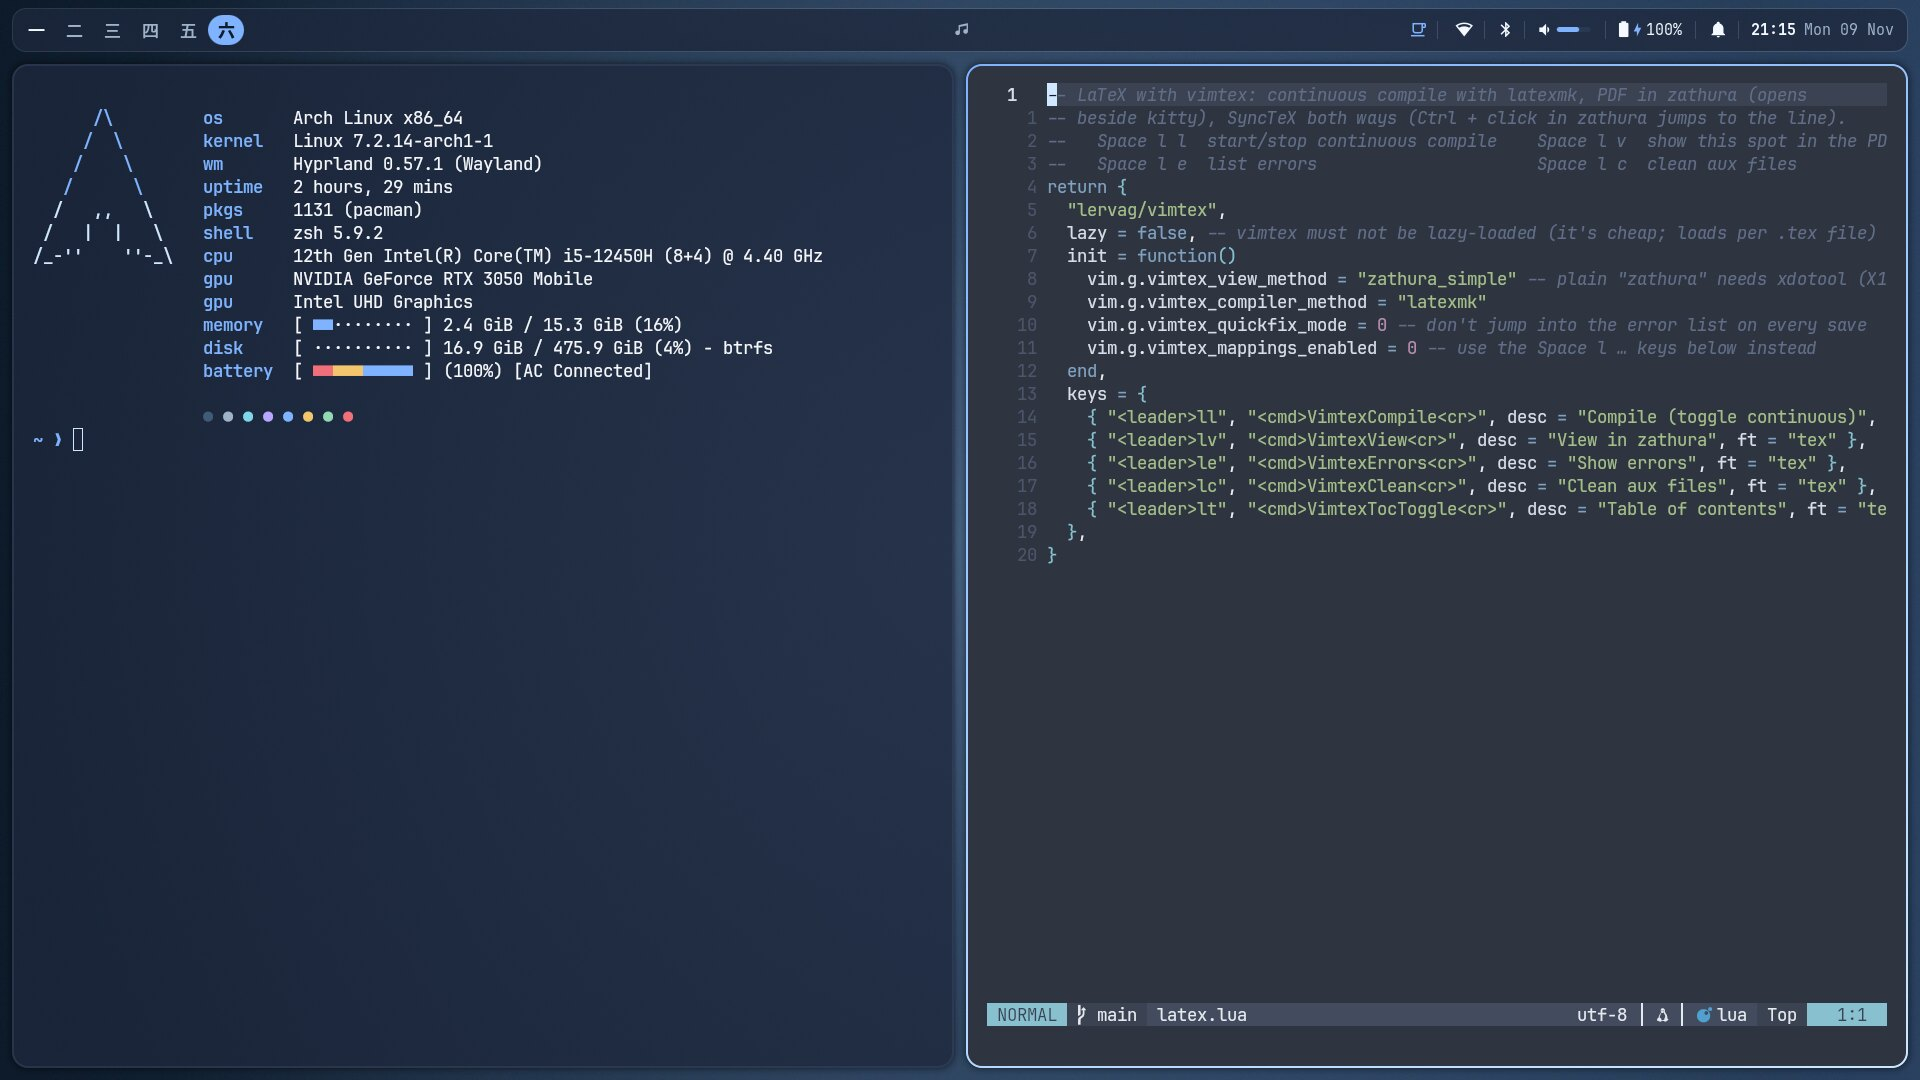
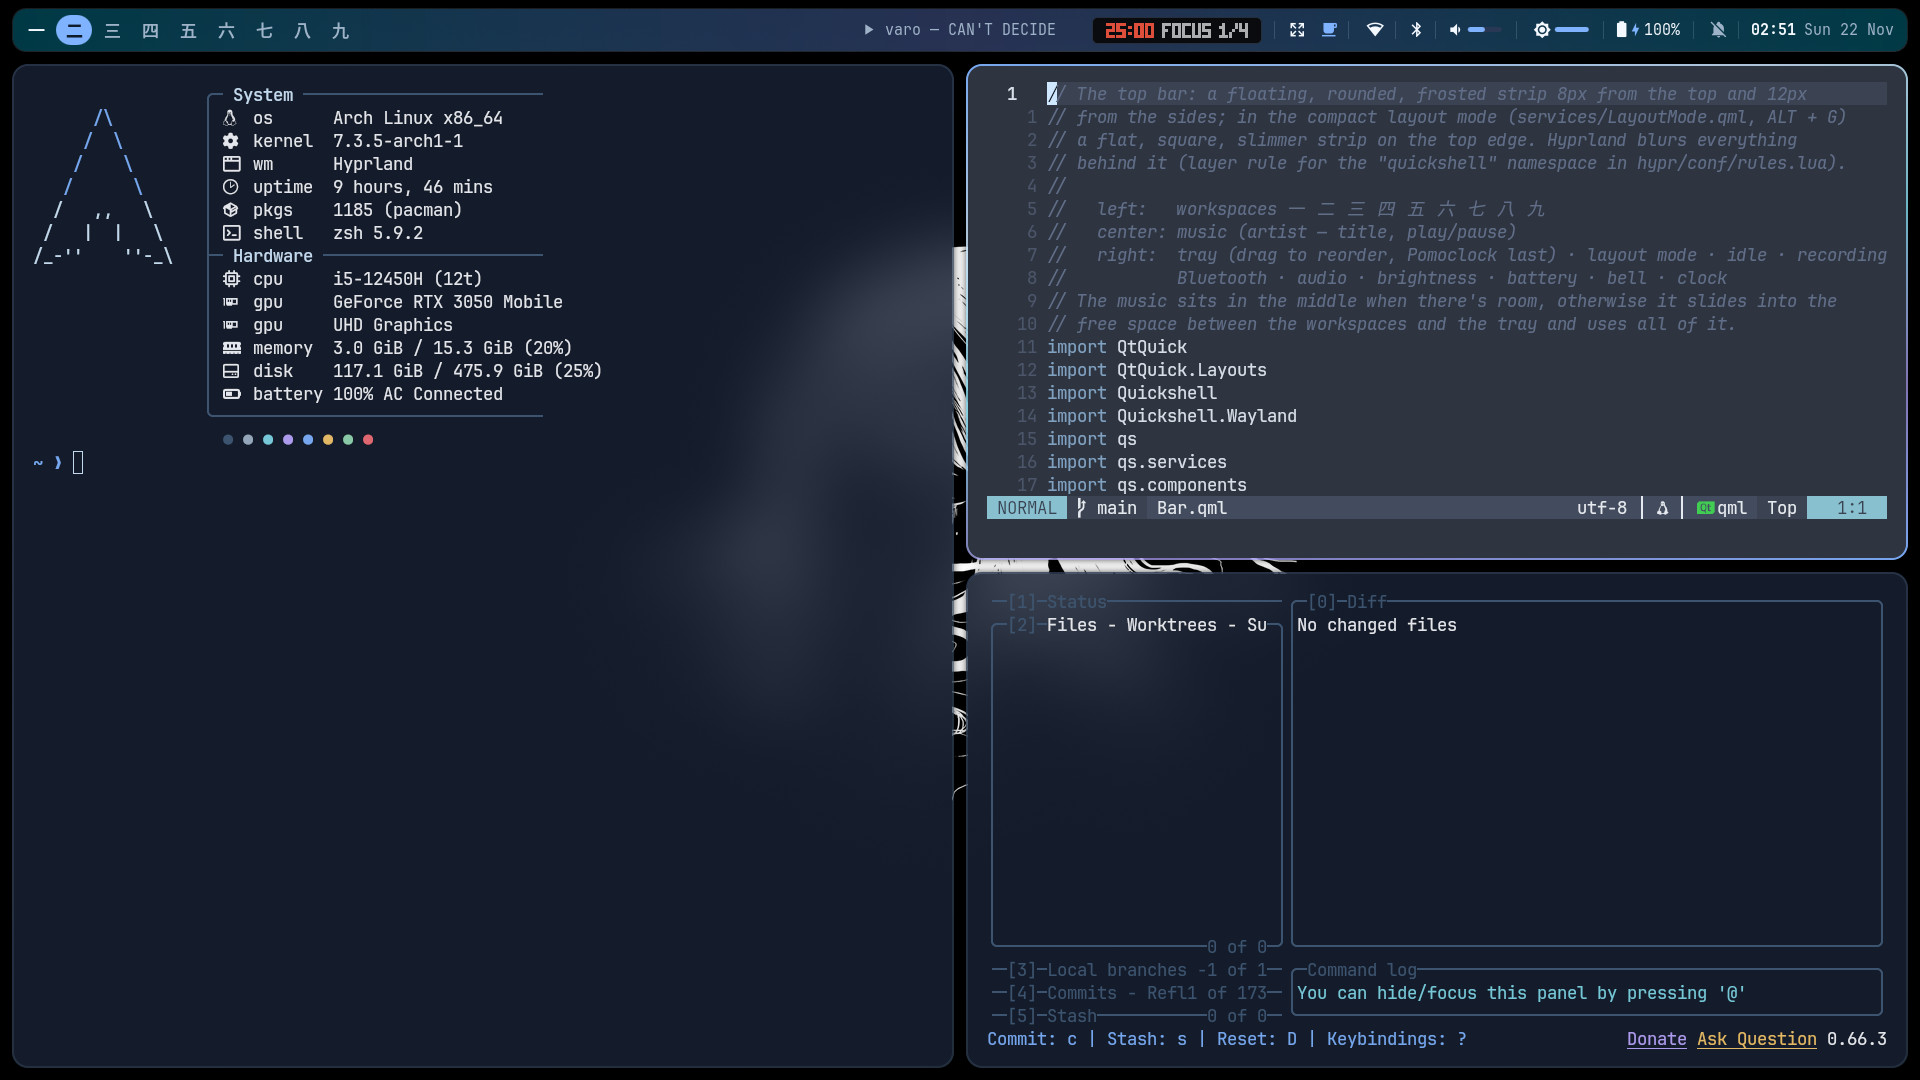
README: rewritten for the current system, new screenshots (compact layout, overview, stats, calculator, ...)

diff --git a/README.md b/README.md
@@ -1,79 +1,124 @@
 # dotfiles · Hyprland on Arch
 
-A calm blue-and-white Hyprland desktop for an **HP Victus 15 laptop**
-(Intel i5-12450H + **RTX 3050**, hybrid graphics) on Arch Linux. Bar, popups,
-notifications, panels and overlays are all **Quickshell**. Everything is in this
-repo and linked into place with GNU Stow; nothing is edited outside it by hand.
+A calm, blue Hyprland desktop for an **HP Victus 15 laptop** (Intel i5-12450H +
+**RTX 3050**, hybrid graphics) on Arch Linux. The bar, popups, notifications,
+panels, overview and every overlay are hand-written in **Quickshell**. All
+config lives in this repo and is linked into place with GNU Stow.
 
-![Desktop: bar, fastfetch and Neovim](docs/screenshots/desktop.jpg)
+![Desktop: the bar, fastfetch, Neovim and lazygit](docs/screenshots/desktop.jpg)
 
-| App launcher (ALT + D) | Power menu (ALT + Escape) |
+| Compact layout (bar button or ALT + G) | Window overview (3-finger swipe up or ALT + A) |
 |---|---|
-| ![App launcher](docs/screenshots/launcher.jpg) | ![Power menu](docs/screenshots/powermenu.jpg) |
+| ![Compact, i3-style layout](docs/screenshots/compact.jpg) | ![Window overview](docs/screenshots/overview.jpg) |
+| **System stats (ALT + S)** | **App launcher (ALT + D)** |
+| ![System stats panel](docs/screenshots/stats.jpg) | ![App launcher](docs/screenshots/launcher.jpg) |
+| **Calculator (ALT + =)** | **Wallpaper reel (ALT + W)** |
+| ![Calculator](docs/screenshots/calc.jpg) | ![Wallpaper reel](docs/screenshots/wallpaper.jpg) |
+| **Power menu (ALT + Escape)** | |
+| ![Power menu](docs/screenshots/powermenu.jpg) | |
+
+## The look
+
+- **Blue Ice** everywhere: deep navy, steel blue, light blue and ice-white, in
+  Hyprland, Quickshell, rofi, kitty, the prompt, fzf, bat, lazygit, fastfetch,
+  Qt apps, qimgv, Vesktop and MangoHud. GTK apps use a teal accent. Neovim,
+  Nautilus and zathura use Nord, a close cousin.
+- **The bar** is a "deep glacier" gradient: teal at both ends, steel blue, and
+  indigo in the middle, all at the same perceived brightness, so text stays
+  easy to read everywhere.
+- **Windows** get a soft aurora border (light blue → ice → cyan → a hint of
+  lavender) that sweeps once when focus changes, and is still otherwise.
+  Unfocused windows are dimmed slightly.
+- **Two layouts**, switched with an animation: *spaced* (floating rounded
+  bar, gaps, rounded windows, shadows) or *compact* (i3-style: no gaps, square
+  windows, the bar a flat strip on the top edge).
+- **Motion** is smooth and calm: things glide and settle, nothing bounces.
+  Nothing animates while you're not doing anything, so idle CPU stays near
+  zero.
 
 ## What's in it
 
+**Desktop**
 - **Hyprland 0.57** (Lua config) on the Intel iGPU; games and heavy apps on the
-  RTX 3050 through `prime-run`. Smooth, no-bounce animations, sensible floating
-  rules, tearing for games.
-- **Quickshell bar**: workspaces 一 二 三 四 五 六 七 八 九; music with play/pause (a
-  cut-off title scrolls smoothly on hover); tray with a drag-to-reorder order
-  that's remembered; stay-awake and recording indicators; Wi-Fi / Bluetooth /
-  audio menus that really connect, pair and switch devices; a brightness
-  control (scroll, or click for a slider with presets); battery,
-  notifications, clock + calendar.
-- **Overlays**: on-screen volume/brightness, notification popups + center with
-  Do Not Disturb (automatic during fullscreen games), system stats panel,
-  power menu, wallpaper reel (slanted cards, angled transition), keybind
-  cheat sheet, idle screen.
-- **Lock + login**: [qylock](https://github.com/Darkkal44/qylock) "winter" for
-  SDDM and the lock screen, with a small patch to its login code (no more hang
-  after pressing Enter on an empty password; shows why a login failed, e.g.
-  the 10-minute lockout after 3 wrong passwords). hypridle dims → idle screen
-  → locks → screen off, and suspends after 20 min **on battery only**. Closing
-  the lid locks when plugged in and suspends on battery.
-- **Rofi** launcher, clipboard history with image thumbnails, emoji picker,
-  calculator (**ALT + =**, also units and currencies) and a file finder for
-  your home folder (**ALT + SHIFT + F**, newest first).
+  RTX 3050 through `prime-run`. 9 workspaces (一 … 九), 3-finger swipe
+  left/right between them, sensible floating rules, tearing for games.
 - **Window overview** (3-finger swipe up or **ALT + A**): live thumbnails of
-  the workspace's windows, the 9 workspaces as mini-maps, type to search all
-  windows, drag a window onto a workspace to move it. Swipe down / Esc closes.
-- **Layout toggle** (bar button next to the coffee cup, or **ALT + G**):
-  spaced and rounded ⇄ i3-style compact (no gaps, square windows, the bar a
-  flat strip on the top edge), animated.
-- **Capture**: screenshots (frozen screen, annotate with satty), color picker,
-  OCR, LaTeX OCR (equation on screen → LaTeX code, offline with pix2tex, ~1 s
-  once loaded; one-time `scripts/latex-ocr/setup.sh`), screen recording with a 60 s instant-replay
+  the workspace's windows, all 9 workspaces as mini-maps, type to search every
+  window, drag a window onto a workspace to move it there. Swipe down or Esc
+  closes.
+
+**Bar** (Quickshell)
+- Workspaces with a sliding pill; the music in the middle (**click**:
+  play/pause, **middle-click**: a now-playing card with the cover, seek bar and
+  controls; a long title scrolls on hover).
+- On the right: the tray (drag icons to reorder; the order is remembered),
+  the layout button, stay-awake (coffee cup), recording indicator, Wi-Fi,
+  Bluetooth and audio menus that really connect, pair and switch devices,
+  brightness (scroll, or click for a slider with presets), battery,
+  notifications and the clock with a calendar.
+
+**Overlays and panels**
+- On-screen volume / brightness indicator, notification popups and a
+  notification center with Do Not Disturb (automatic during fullscreen games).
+- **System stats (ALT + S)**: CPU/RAM/GPU/disk gauges, a per-thread heat map
+  (hover a thread for its own graph), smooth graphs, GPUs, storage, network,
+  battery health, and top processes with app icons (end one with a confirm).
+- Power menu, wallpaper reel (slanted cards, angled transition), keybind cheat
+  sheet (**ALT + /**, searchable), idle screen.
+
+**Lock, login and idle**
+- [qylock](https://github.com/Darkkal44/qylock) "winter" for the SDDM login
+  and the lock screen (**SUPER + L**), with a small patch to its login code
+  (no hang on an empty password; it says why a login failed).
+- Idle: dim + idle screen → lock → screen off; suspend after 20 min **on
+  battery only**. Closing the lid locks when plugged in and suspends on
+  battery.
+
+**Launcher and tools**
+- **rofi**: app launcher (**ALT + D**), clipboard history with image
+  thumbnails (**ALT + C**), emoji picker (**ALT + SHIFT + E**), calculator
+  (**ALT + =**, also units and currencies; Enter copies), and a file finder for
+  your home folder (**ALT + SHIFT + F**, newest first; Enter opens, Shift +
+  Enter shows it in Nautilus).
+- **Capture**: screenshots on a frozen screen (annotate with satty), color
+  picker, OCR, **LaTeX OCR** (an equation on screen → LaTeX code, offline with
+  pix2tex, ~1 s once loaded), screen recording with a 60-second instant-replay
   buffer.
-- **Theme**: Blue Ice (dark/light blue + white) across Hyprland, Quickshell,
-  rofi, kitty, starship, fzf, bat, lazygit, fastfetch, Qt, qimgv, Vesktop and
-  MangoHud. Neovim, Nautilus and zathura use Nord.
-- **Shell**: kitty, zsh + Oh My Zsh, starship, eza, bat, ripgrep, fd, fzf,
-  zoxide, lazygit, fastfetch, a dropdown terminal (ALT + `), `lockdir` /
-  `unlockdir` to password-protect a folder (GnuPG AES-256), `ccmonitor` (live
-  Claude Code usage; one-time `scripts/ccmonitor/setup.sh`).
-- **Neovim**: Nord, LSP, Telescope, Treesitter, auto-closing brackets (and `$…$`
-  in LaTeX), LaTeX with live preview in
-  zathura (SyncTeX both ways), Rust (rust-analyzer, rustfmt + clippy on save).
-- **Nautilus**: Nord, Google Drive via rclone, PDF thumbnails, Move to Trash
-  everywhere, and right-click **Copy as Path**, **View All Images** (a folder
-  and all its subfolders in one qimgv grid) and **Lock with Password… /
-  Unlock…** for folders. Images open in qimgv, themed like the rest.
-- **Music**: rmpc (terminal player with album art and a cava visualiser) on
-  MPD; it shows in the bar's music widget and follows the media keys.
-- **Apps**: Zen, Outlook web app, Teams, Vesktop, Claude desktop, LocalSend,
-  Steam + MangoHud + GameMode (GE-Proton where a game needs it).
-- **Bluetooth**: devices pair from the bar menu and stay paired (blueman's
-  agent runs in the background; PIN / code confirmations arrive as
-  notifications).
-- **Safety net**: btrfs snapshots before/after every package change (snapper +
-  snap-pac), a careful `update` command, firewall, and a maintenance log.
+
+**Terminal and shell**
+- kitty, zsh + Oh My Zsh, starship, eza, bat, ripgrep, fd, fzf, zoxide,
+  lazygit, fastfetch (boxed, with icons), a dropdown terminal (**ALT + `**).
+- `lockdir` / `unlockdir` to password-protect a folder (GnuPG AES-256),
+  `view-all-images` (a folder and its subfolders in one image grid),
+  `ccmonitor` (live Claude Code usage and limits), `update` (safe system
+  updates, below).
+
+**Neovim**
+- Nord, LSP, Telescope, Treesitter, completion, file tree, git signs, lazygit.
+- **Space c f** formats the file (C/C++, LaTeX, Rust, Python; Rust also on
+  save); brackets and `$…$` (in LaTeX) close themselves without getting in the
+  way.
+- LaTeX with live preview in zathura (SyncTeX both ways), Rust with
+  rust-analyzer and clippy.
+
+**Files and apps**
+- **Nautilus**: Nord, Google Drive via rclone, PDF thumbnails, right-click
+  **Copy as Path**, **View All Images** and **Lock with Password… / Unlock…**.
+  Images open in **qimgv**.
+- **Music**: rmpc (terminal player with album art and a visualiser) on MPD,
+  shown in the bar and on the media keys.
+- Zen, Outlook web app, Teams, Vesktop, Claude desktop, LocalSend; Steam +
+  MangoHud + GameMode (GE-Proton where a game needs it).
+
+**Safety net**
+- btrfs snapshots before and after every package change (snapper + snap-pac),
+  a careful `update` command, a firewall, and a dated maintenance log.
 
 ## Install (fresh Arch Linux)
 
-Assumes Arch on **btrfs** with systemd-boot, NetworkManager and the AUR helper
-`yay`, on this laptop's hardware. Other machines: read the GPU (§2) and
-hardware notes in `system/ROOT-STEPS.md` first.
+Assumes Arch on **btrfs** with systemd-boot and NetworkManager, on this
+laptop's hardware. On other machines, read the GPU and hardware notes in
+`system/ROOT-STEPS.md` first.
 
 ```sh
 git clone https://github.com/sparrow876/dotfiles ~/dotfiles
@@ -88,43 +133,44 @@ Short version:
 2. `bash system/root-steps/1.5-home-subvolumes.sh` from a TTY (keeps caches,
    downloads, recordings and Steam out of snapshots).
 3. `bash system/root-steps/2-nvidia.sh`, then **reboot**.
-4. Install `yay` (ROOT-STEPS §5.0), then `bash system/root-steps/3-system.sh`:
-   checks, performance profile, multilib, **all packages** (`packages/*.txt`),
-   the user-level `./install.sh`, timers, firewall.
-5. `./install.sh` again only if you skipped step 4 or changed something: the
-   user-level part (no sudo): folders, default wallpaper, pinned clones (Oh My
-   Zsh, plugins, qylock), theme files, stow links, Qt and GTK settings.
+4. Install the AUR helper `yay` (ROOT-STEPS §5.0), then
+   `bash system/root-steps/3-system.sh`: checks, performance profile,
+   multilib, **all packages** (`packages/*.txt`), the user-level
+   `./install.sh`, timers, firewall.
+5. `./install.sh` again only if you skipped step 4 or changed something. It's
+   the user-level part (no sudo): folders, default wallpaper, pinned clones
+   (Oh My Zsh, plugins, qylock), stow links, Qt and GTK settings.
 6. `chsh -s /usr/bin/zsh` (ROOT-STEPS §8).
 7. Lock + login screen: qylock's two scripts, then
    `bash system/root-steps/4-login.sh` (ROOT-STEPS §10), and reboot into SDDM.
 8. Laptop lid (lock when plugged in, suspend on battery): ROOT-STEPS §14.
-9. Move to Trash in Downloads / Recordings / .cache / Steam (their own btrfs
-   subvolumes): `bash system/root-steps/5-trash-mounts.sh` (ROOT-STEPS §15).
-10. Optional: Google Drive and folder colors (§11), work/chat apps (§12),
+9. Move to Trash in Downloads / Recordings / .cache / Steam:
+   `bash system/root-steps/5-trash-mounts.sh` (ROOT-STEPS §15).
+10. Optional: Google Drive and folder colours (§11), work/chat apps (§12),
     gaming (§13 + [system/GAMING.md](system/GAMING.md)), Rust
-    (`./install.sh --only rust` after `rustup` is installed).
+    (`./install.sh --only rust` after `rustup`), LaTeX OCR
+    (`scripts/latex-ocr/setup.sh`), ccmonitor (`scripts/ccmonitor/setup.sh`).
 
 `./install.sh` (without `--packages`) never uses `sudo`, never edits `/etc` and
-never runs third-party scripts. `./install.sh --help` lists its steps. It also
-applies this repo's lock-screen patch to the qylock clone
-(`lockscreen/apply-patches.sh`), so run qylock's `quickshell.sh` after it.
+never runs third-party scripts; `./install.sh --help` lists its steps. Every
+AUR package was reviewed first (`packages/aur.txt` notes the reviewed AUR
+commit), and the two Python tools install only checksum-pinned packages (their
+`requirements.txt`).
 
 ## Everyday use
 
-- **ALT + /** shows every shortcut (searchable). The full table is below.
-- **ALT + W** picks a wallpaper (drop images in
-  `~/Pictures/Wallpapers`; they're listed in natural order: w1, w2, …, w10).
-- **Bar**: drag tray icons to reorder them; scroll on the sun for brightness
-  (click for the slider); hover a long song title to read it all.
-- **`update`** in a terminal updates the system safely: Arch news first (stops
-  if something needs a manual step), then `yay -Syu`, then checks. `update
-  --check` changes nothing. See [zsh/SHELL-CHEATSHEET.md](zsh/SHELL-CHEATSHEET.md).
-- **`lockdir <folder>`** turns a folder into one password-protected file;
-  **`unlockdir <folder>.locked`** brings it back (also in Nautilus's
-  right-click menu).
-- **`view-all-images [folder]`** opens every image in a folder and its
-  subfolders as one thumbnail grid in qimgv (also Nautilus right-click
-  **View All Images**). Browsing only: delete/rename the real files in Nautilus.
+- **ALT + /** shows every shortcut, searchable; the full table is below.
+- **3-finger swipe up** (or **ALT + A**) shows all windows; swipe down closes.
+- **ALT + G** (or the bar button left of the coffee cup) switches between the
+  spaced and compact layouts. The choice is remembered.
+- **ALT + W** picks a wallpaper (put images in `~/Pictures/Wallpapers`; they're
+  listed in natural order: w1, w2, …, w10).
+- **Bar**: drag tray icons to reorder them; scroll on the sun for brightness;
+  middle-click the music for the now-playing card.
+- **`update`** in a terminal updates the system safely: Arch news first (it
+  stops if something needs a manual step), then `yay -Syu`, then checks.
+  `update --check` changes nothing. See
+  [zsh/SHELL-CHEATSHEET.md](zsh/SHELL-CHEATSHEET.md).
 - Games: launch options `prime-run gamemoderun mangohud %command%`
   ([system/GAMING.md](system/GAMING.md)).
 
@@ -239,8 +285,9 @@ Generated from the live Hyprland binds by `scripts/keybinds-to-md.sh README.md`
   number); how to roll back, in plain English: ROOT-STEPS §1.6.
 - **Login screen broken**: from a TTY, `sudo systemctl disable sddm.service`,
   reboot, log in on the TTY and type `start-hyprland`.
+- **Stuck in the compact layout or odd gaps**: `scripts/layout-mode.sh spaced`.
 - **No sound**: MAINTENANCE.md §4.4 (card profile).
-- **Qt apps or qimgv lose their colours**: `./install.sh --only qt`.
+- **Qt apps or qimgv lost their colours**: `./install.sh --only qt`.
 
 More in [MAINTENANCE.md](MAINTENANCE.md) §8.
 
@@ -249,10 +296,9 @@ More in [MAINTENANCE.md](MAINTENANCE.md) §8.
 | File | What's in it |
 |------|--------------|
 | [system/ROOT-STEPS.md](system/ROOT-STEPS.md) | every root action, in order, with undo |
-| [MAINTENANCE.md](MAINTENANCE.md) | how the system is built, gotchas, recipes, dated log of breakages and fixes |
+| [MAINTENANCE.md](MAINTENANCE.md) | how the system is built, gotchas, recipes, decisions, and a dated log of every change and fix |
 | [zsh/SHELL-CHEATSHEET.md](zsh/SHELL-CHEATSHEET.md) | the shell and CLI tools, in plain English |
 | [nvim/CHEATSHEET.md](nvim/CHEATSHEET.md) | Neovim + LaTeX, in plain English |
-| [theme/README.md](theme/README.md) | palettes and how to add a theme |
 | [system/GAMING.md](system/GAMING.md) | Steam, launch options, controller, per-game notes |
 | [system/APPS.md](system/APPS.md) | Outlook, Teams, Vesktop, Claude, Google Drive, LocalSend |
 | [lockscreen/README.md](lockscreen/README.md) | how the qylock lock/login screen is set up, and its patch |
@@ -260,15 +306,21 @@ More in [MAINTENANCE.md](MAINTENANCE.md) §8.
 ## Repository layout
 
 ```
-hypr/ quickshell/ rofi/ kitty/ zsh/ starship/ fastfetch/ lazygit/ bat/
-nvim/ zathura/ gtk/ qt/ xdg/ applications/ systemd/ vesktop/ mangohud/ gamemode/
-thumbnailers/ nautilus/ bin/ mpd/ rmpc/
+hypr/ quickshell/ rofi/ kitty/ zsh/ starship/ fastfetch/ lazygit/ bat/ nvim/
+zathura/ gtk/ qt/ xdg/ applications/ systemd/ vesktop/ mangohud/ gamemode/
+thumbnailers/ nautilus/ bin/ mpd/ rmpc/ makepkg/
                       stow packages: each mirrors $HOME (e.g. kitty/.config/kitty/)
+quickshell/.config/quickshell/
+    bar/ popups/ notifications/ osd/ overview/ panel/ powermenu/ wallpaper/
+    idle/ cheatsheet/ services/ components/      the whole shell, one folder per part
+qimgv/                qimgv's colours (copied into place: qimgv rewrites its file)
 lockscreen/           qylock notes + GPL patch for its login code
-scripts/              screenshot, OCR, recording, clipboard, lock, update, ...
+scripts/              screenshot, OCR, LaTeX OCR, recording, clipboard, calculator,
+                      file finder, layout mode, lock, update, ...
 packages/             pacman.txt, aur.txt (PKGBUILDs reviewed), base.txt
 system/               ROOT-STEPS.md, root-step scripts, /etc snippets, units, docs
-install.sh            user-level setup (stow, clones, theme, settings)
+docs/screenshots/     the pictures above
+install.sh            user-level setup (stow, clones, settings)
 ```
 
 ## Credits
@@ -279,18 +331,20 @@ Built on the work of many projects, each under its own license:
 [qylock](https://github.com/Darkkal44/qylock) by Darkkal44 (lock and login
 screen, GPL-3.0; cloned by `install.sh`, not included here) ·
 [awww](https://codeberg.org/LGFae/awww) ·
-[rofi](https://github.com/davatorium/rofi) + rofimoji ·
+[rofi](https://github.com/davatorium/rofi), rofimoji, rofi-calc + libqalculate ·
 [kitty](https://sw.kovidgoyal.net/kitty/) ·
 [Oh My Zsh](https://ohmyz.sh), zsh-autosuggestions, zsh-syntax-highlighting ·
 starship, fastfetch, eza, bat, ripgrep, fd, fzf, zoxide, lazygit ·
-[Neovim](https://neovim.io) with lazy.nvim, nord.nvim, Telescope, nvim-treesitter,
-mason, blink.cmp, neo-tree, lualine, bufferline, which-key, gitsigns,
-toggleterm, vimtex · zathura ·
-grim, slurp, satty, hyprpicker, tesseract, gpu-screen-recorder, cliphist ·
+[Neovim](https://neovim.io) with lazy.nvim, nord.nvim, Telescope,
+nvim-treesitter, mason, blink.cmp, conform.nvim, nvim-autopairs, neo-tree,
+lualine, bufferline, which-key, gitsigns, toggleterm, vimtex · zathura ·
+grim, slurp, satty, hyprpicker, tesseract,
+[pix2tex](https://github.com/lukas-blecher/LaTeX-OCR), gpu-screen-recorder,
+cliphist · MPD, rmpc · qimgv ·
+[Claude Code Usage Monitor](https://github.com/Maciek-roboblog/Claude-Code-Usage-Monitor) ·
 MangoHud, GameMode, GE-Proton · rclone · blueman · nautilus-python · GnuPG ·
-[Catppuccin](https://catppuccin.com) palettes (MIT) ·
-[Nord](https://www.nordtheme.com) ·
-Papirus icons · Bibata cursor · JetBrains Mono Nerd Font.
+[Nord](https://www.nordtheme.com) · Papirus icons · Bibata cursor ·
+JetBrains Mono Nerd Font.
 
 ## License
 

diff --git a/MAINTENANCE.md b/MAINTENANCE.md
@@ -604,6 +604,17 @@ log entry (§9), update README/cheat sheets/ROOT-STEPS if they describe it.
 Newest first. Format: date — what broke / what changed, after which update,
 root cause, fix, files.
 
+- **2026-11-22** — README rewritten from scratch (user: the system changed a
+  lot). New sections: The look, What's in it (by area), Install, Everyday use,
+  generated Keybinds, Recovery (+ layout reset), Documentation (theme/README.md
+  removed), Repository layout (makepkg/, qimgv/, overview/, docs/), Credits
+  (Catppuccin dropped; conform.nvim, nvim-autopairs, rofi-calc, pix2tex, MPD,
+  rmpc, qimgv, Claude Code Usage Monitor added). Screenshots retaken on
+  workspace 2 with three demo windows (closed afterwards, user returned to
+  workspace 1): desktop, compact, overview, stats, launcher, calc, wallpaper,
+  powermenu (docs/screenshots/*.jpg, 1.9 MB). Files: README.md,
+  docs/screenshots/.
+
 - **2026-11-22** — Window overview (user: "gnome style swipe up to see all
   windows, tailored to this system"). quickshell overview/Overview.qml, one per
   monitor via Overlays (`overview` property + IPC toggle/open/close):
